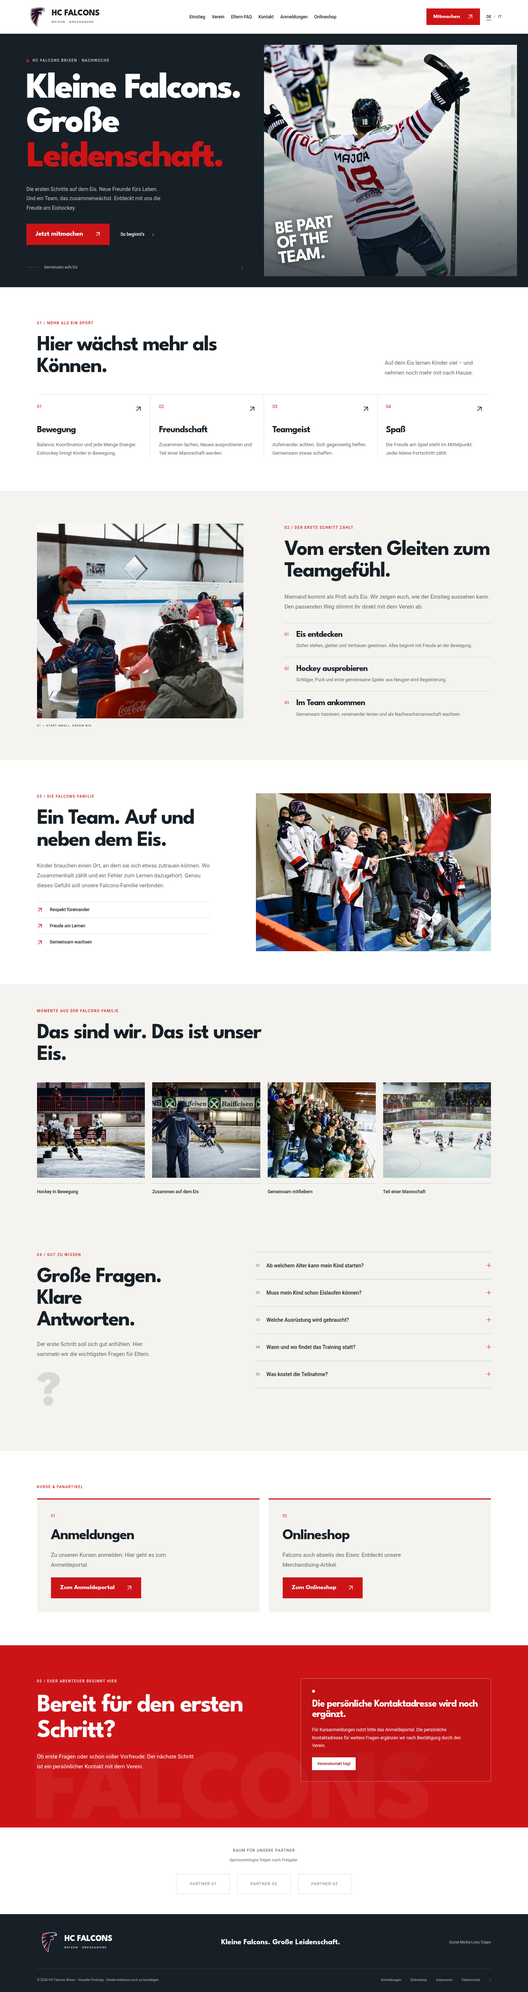
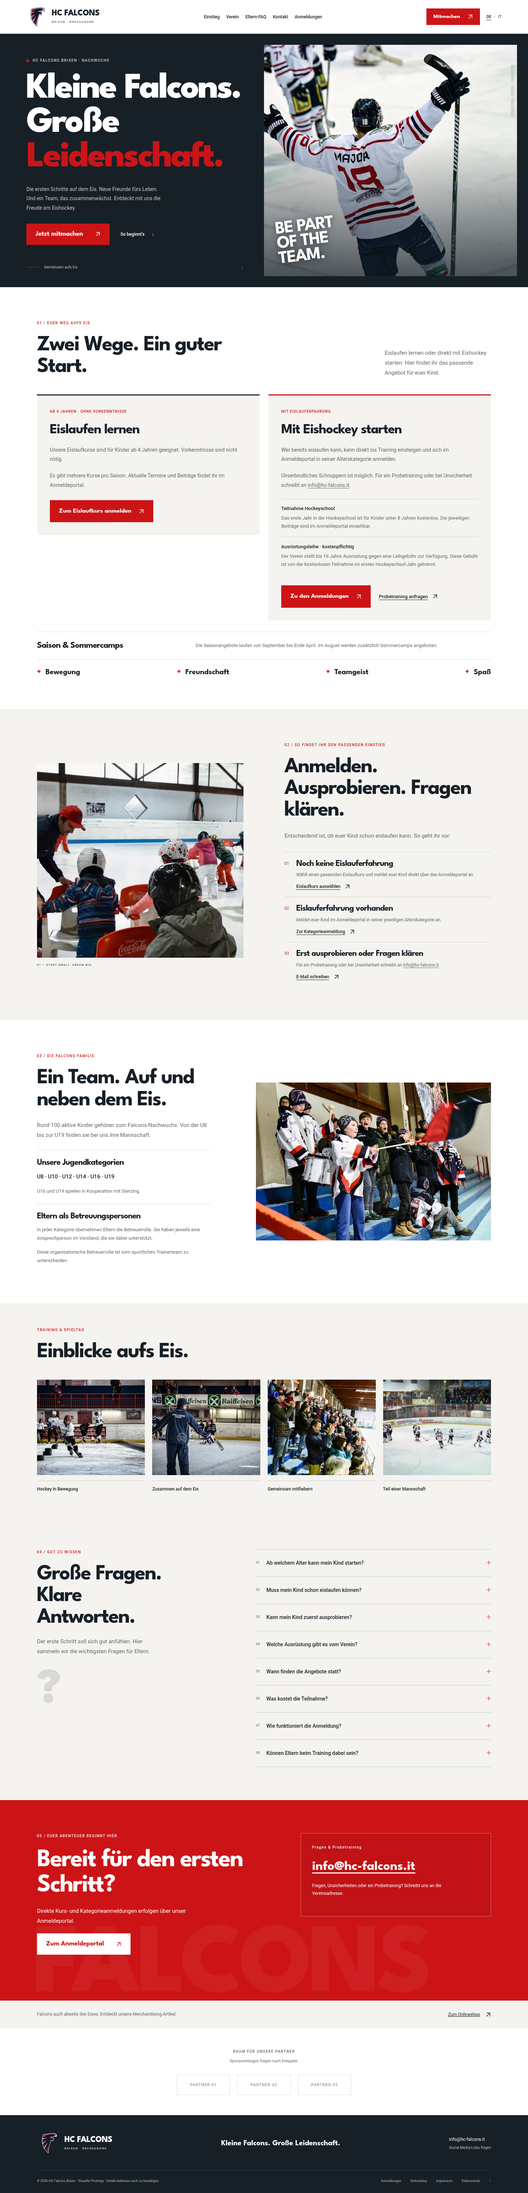
Clarify skating and hockey entry paths with confirmed bilingual club information

diff --git a/src/data/content.ts b/src/data/content.ts
@@ -1,23 +1,280 @@
 export const content = {
- de: {
- lang:'de', title:'Kleine Falcons. Große Leidenschaft.', description:'Eishockey entdecken beim HC Falcons Brixen. Ein Einstieg für Kinder und ihre Familien.',
- servicesLabel:'KURSE & FANARTIKEL', registration:'Anmeldungen', registrationText:'Zu unseren Kursen anmelden: Hier geht es zum Anmeldeportal.', registrationAction:'Zum Anmeldeportal', shop:'Onlineshop', shopText:'Falcons auch abseits des Eises: Entdeckt unsere Merchandising-Artikel.', shopAction:'Zum Onlineshop', linkPending:'Link wird noch ergänzt', nav:['Einstieg','Verein','Eltern-FAQ','Kontakt'], join:'Mitmachen', preview:'Designvorschau', dark:'Dark Athletic', clean:'Clean Athletic',
- eyebrow:'HC FALCONS BRIXEN · NACHWUCHS', hero:['Kleine Falcons.','Große','Leidenschaft.'], intro:'Die ersten Schritte auf dem Eis. Neue Freunde fürs Leben. Und ein Team, das zusammenwächst. Entdeckt mit uns die Freude am Eishockey.', cta:'Jetzt mitmachen', secondary:'So beginnt’s',   scroll:'Gemeinsam aufs Eis',
- whyLabel:'MEHR ALS EIN SPORT', whyTitle:'Hier wächst mehr als Können.', whyIntro:'Auf dem Eis lernen Kinder viel – und nehmen noch mehr mit nach Hause.', benefits:[['01','Bewegung','Balance, Koordination und jede Menge Energie: Eishockey bringt Kinder in Bewegung.'],['02','Freundschaft','Zusammen lachen, Neues ausprobieren und Teil einer Mannschaft werden.'],['03','Teamgeist','Aufeinander achten. Sich gegenseitig helfen. Gemeinsam etwas schaffen.'],['04','Spaß','Die Freude am Spiel steht im Mittelpunkt. Jeder kleine Fortschritt zählt.']],
- pathLabel:'DER ERSTE SCHRITT ZÄHLT', pathTitle:'Vom ersten Gleiten zum Teamgefühl.', pathIntro:'Niemand kommt als Profi aufs Eis. Wir zeigen euch, wie der Einstieg aussehen kann. Den passenden Weg stimmt ihr direkt mit dem Verein ab.', steps:[['Eis entdecken','Sicher stehen, gleiten und Vertrauen gewinnen. Alles beginnt mit Freude an der Bewegung.'],['Hockey ausprobieren','Schläger, Puck und erste gemeinsame Spiele: aus Neugier wird Begeisterung.'],['Im Team ankommen','Gemeinsam trainieren, voneinander lernen und als Nachwuchsmannschaft wachsen.']],
- familyLabel:'DIE FALCONS-FAMILIE', familyTitle:'Ein Team. Auf und neben dem Eis.', familyText:'Kinder brauchen einen Ort, an dem sie sich etwas zutrauen können. Wo Zusammenhalt zählt und ein Fehler zum Lernen dazugehört. Genau dieses Gefühl soll unsere Falcons-Familie verbinden.', values:['Respekt füreinander','Freude am Lernen','Gemeinsam wachsen'],
- faqLabel:'GUT ZU WISSEN', faqTitle:'Große Fragen. Klare Antworten.', faqIntro:'Der erste Schritt soll sich gut anfühlen. Hier sammeln wir die wichtigsten Fragen für Eltern.', faqs:[['Ab welchem Alter kann mein Kind starten?','Das genaue Einstiegsalter stimmen wir noch mit dem Verein ab. Bitte fragt den passenden Einstieg für euer Kind direkt an.'],['Muss mein Kind schon Eislaufen können?','Die Voraussetzungen für die einzelnen Angebote werden noch bestätigt. Erzählt bei eurer Anfrage kurz, welche Erfahrungen euer Kind bereits hat.'],['Welche Ausrüstung wird gebraucht?','Informationen zu Ausrüstung und möglichen Leihangeboten folgen. Bitte klärt vor dem ersten Besuch, was mitzubringen ist.'],['Wann und wo findet das Training statt?','Trainingszeiten und der genaue Treffpunkt sind noch offen und werden nach Bestätigung durch den Verein ergänzt.'],['Was kostet die Teilnahme?','Bestätigte Mitgliedsbeiträge und mögliche Zusatzkosten liegen noch nicht vor. Die Informationen werden hier ergänzt.']],
- contactLabel:'EUER ABENTEUER BEGINNT HIER', contactTitle:'Bereit für den ersten Schritt?', contactText:'Ob erste Fragen oder schon voller Vorfreude: Der nächste Schritt ist ein persönlicher Kontakt mit dem Verein.', contactMissing:'Die persönliche Kontaktadresse wird noch ergänzt.', contactStatus:'Vereinskontakt folgt', contactHint:'Für Kursanmeldungen nutzt bitte das Anmeldeportal. Die persönliche Kontaktadresse für weitere Fragen ergänzen wir nach Bestätigung durch den Verein.',
- sponsor:'RAUM FÜR UNSERE PARTNER', sponsorText:'Sponsorenlogos folgen nach Freigabe.', footerLine:'Kleine Falcons. Große Leidenschaft.', legal:'Impressum', privacy:'Datenschutz', legalText:'Die rechtlichen Pflichtangaben und Datenschutzinformationen sind noch nicht hinterlegt. Dieser Bereich ist ein Platzhalter für die interne Vorschau.', social:'Social-Media-Links folgen', back:'Zurück zur Website', skip:'Zum Inhalt', prototype:'Visueller Prototyp · Inhalte teilweise noch zu bestätigen',
- },
- it: {
- lang:'it', title:'Piccoli Falcons. Grande passione.', description:'Scoprire l’hockey con HC Falcons Brixen. Un primo passo per bambini e famiglie.',
- servicesLabel:'CORSI & MERCHANDISING', registration:'Iscrizioni', registrationText:'Iscrivetevi ai nostri corsi tramite il portale dedicato.', registrationAction:'Al portale iscrizioni', shop:'Shop online', shopText:'Falcons anche fuori dal ghiaccio: scoprite i nostri articoli di merchandising.', shopAction:'Allo shop online', linkPending:'Link in arrivo', nav:['Primi passi','Il club','FAQ genitori','Contatti'], join:'Partecipa', preview:'Anteprima design', dark:'Dark Athletic', clean:'Clean Athletic',
- eyebrow:'HC FALCONS BRIXEN · SETTORE GIOVANILE', hero:['Piccoli Falcons.','Grande','passione.'], intro:'I primi passi sul ghiaccio. Nuovi amici. Una squadra che cresce insieme. Scoprite con noi la gioia dell’hockey.', cta:'Inizia con noi', secondary:'Come iniziare',   scroll:'Insieme sul ghiaccio',
- whyLabel:'PIÙ DI UNO SPORT', whyTitle:'Qui si cresce, insieme.', whyIntro:'Sul ghiaccio si impara tanto. E si porta a casa ancora di più.', benefits:[['01','Movimento','Equilibrio, coordinazione ed energia: l’hockey mette in movimento i bambini.'],['02','Amicizia','Ridere insieme, provare qualcosa di nuovo e sentirsi parte di una squadra.'],['03','Spirito di squadra','Prendersi cura degli altri. Aiutarsi. Raggiungere un obiettivo insieme.'],['04','Divertimento','La gioia del gioco viene prima di tutto. Ogni piccolo progresso conta.']],
- pathLabel:'CONTA IL PRIMO PASSO', pathTitle:'Dai primi pattini allo spirito di squadra.', pathIntro:'Nessuno nasce campione. Ecco come potrebbe iniziare il percorso: il programma adatto va concordato direttamente con il club.', steps:[['Scoprire il ghiaccio','Stare in equilibrio, scivolare e prendere fiducia. Si parte dalla gioia di muoversi.'],['Provare l’hockey','Bastone, disco e primi giochi insieme: la curiosità diventa passione.'],['Entrare in squadra','Allenarsi insieme, imparare gli uni dagli altri e crescere come gruppo.']],
- familyLabel:'LA FAMIGLIA FALCONS', familyTitle:'Una squadra. Anche fuori dal ghiaccio.', familyText:'I bambini hanno bisogno di un luogo in cui mettersi alla prova. Dove conta il gruppo e gli errori aiutano a imparare. È questo lo spirito che vogliamo condividere nella famiglia Falcons.', values:['Rispetto reciproco','Piacere di imparare','Crescere insieme'],
- faqLabel:'DA SAPERE', faqTitle:'Grandi domande. Risposte chiare.', faqIntro:'Per iniziare con serenità: le domande più importanti per i genitori.', faqs:[['Da che età si può iniziare?','L’età di ingresso deve ancora essere confermata dal club. Chiedete quale percorso è adatto a vostro figlio.'],['È necessario saper già pattinare?','I requisiti delle singole attività saranno confermati. Indicate nella richiesta le esperienze già fatte sul ghiaccio.'],['Quale attrezzatura serve?','Le informazioni sull’attrezzatura e su eventuali prestiti seguiranno. Chiedete cosa portare prima della prima visita.'],['Quando e dove si svolgono gli allenamenti?','Orari e punto di ritrovo verranno aggiunti dopo la conferma del club.'],['Quanto costa partecipare?','Quote e possibili costi aggiuntivi non sono ancora stati confermati. Le informazioni verranno aggiunte qui.']],
- contactLabel:'L’AVVENTURA INIZIA QUI', contactTitle:'Pronti per il primo passo?', contactText:'Per una prima domanda o per cominciare: il prossimo passo è un contatto personale con il club.', contactMissing:'Il recapito diretto del club sarà aggiunto.', contactStatus:'Recapito del club in arrivo', contactHint:'Per iscrivervi ai corsi utilizzate il portale iscrizioni. Il recapito diretto per altre domande sarà aggiunto dopo la conferma del club.', sponsor:'SPAZIO AI NOSTRI PARTNER', sponsorText:'Loghi degli sponsor dopo approvazione.', footerLine:'Piccoli Falcons. Grande passione.', legal:'Note legali', privacy:'Privacy', legalText:'Le informazioni legali e sulla privacy non sono ancora disponibili. Questa sezione è un segnaposto per l’anteprima interna.', social:'Link social in arrivo', back:'Torna al sito', skip:'Vai al contenuto', prototype:'Prototipo visivo · Alcuni contenuti da confermare',
- }
+  "de": {
+    "lang": "de",
+    "title": "Kleine Falcons. Große Leidenschaft.",
+    "description": "Eishockey entdecken beim HC Falcons Brixen. Ein Einstieg für Kinder und ihre Familien.",
+    "registration": "Anmeldungen",
+    "shop": "Onlineshop",
+    "shopText": "Falcons auch abseits des Eises: Entdeckt unsere Merchandising-Artikel.",
+    "shopAction": "Zum Onlineshop",
+    "nav": [
+      "Einstieg",
+      "Verein",
+      "Eltern-FAQ",
+      "Kontakt"
+    ],
+    "join": "Mitmachen",
+    "eyebrow": "HC FALCONS BRIXEN · NACHWUCHS",
+    "hero": [
+      "Kleine Falcons.",
+      "Große",
+      "Leidenschaft."
+    ],
+    "intro": "Die ersten Schritte auf dem Eis. Neue Freunde fürs Leben. Und ein Team, das zusammenwächst. Entdeckt mit uns die Freude am Eishockey.",
+    "cta": "Jetzt mitmachen",
+    "secondary": "So beginnt’s",
+    "scroll": "Gemeinsam aufs Eis",
+    "benefits": [
+      "Bewegung",
+      "Freundschaft",
+      "Teamgeist",
+      "Spaß"
+    ],
+    "pathLabel": "SO FINDET IHR DEN PASSENDEN EINSTIEG",
+    "pathTitle": "Anmelden. Ausprobieren. Fragen klären.",
+    "pathIntro": "Entscheidend ist, ob euer Kind schon eislaufen kann. So geht ihr vor:",
+    "steps": [
+      [
+        "Noch keine Eislauferfahrung",
+        "Wählt einen passenden Eislaufkurs und meldet euer Kind direkt über das Anmeldeportal an.",
+        "Eislaufkurs auswählen"
+      ],
+      [
+        "Eislauferfahrung vorhanden",
+        "Meldet euer Kind im Anmeldeportal in seiner jeweiligen Alterskategorie an.",
+        "Zur Kategorieanmeldung"
+      ],
+      [
+        "Erst ausprobieren oder Fragen klären",
+        "Für ein Probetraining oder bei Unsicherheit schreibt an info@hc-falcons.it.",
+        "E-Mail schreiben"
+      ]
+    ],
+    "familyLabel": "DIE FALCONS-FAMILIE",
+    "familyTitle": "Ein Team. Auf und neben dem Eis.",
+    "familyText": "Rund 100 aktive Kinder gehören zum Falcons-Nachwuchs. Von der U8 bis zur U19 finden sie bei uns ihre Mannschaft.",
+    "faqLabel": "GUT ZU WISSEN",
+    "faqTitle": "Große Fragen. Klare Antworten.",
+    "faqIntro": "Der erste Schritt soll sich gut anfühlen. Hier sammeln wir die wichtigsten Fragen für Eltern.",
+    "faqs": [
+      [
+        "Ab welchem Alter kann mein Kind starten?",
+        "Die Eislaufkurse werden ab 4 Jahren angeboten."
+      ],
+      [
+        "Muss mein Kind schon eislaufen können?",
+        "Für den Eislaufkurs sind keine Vorkenntnisse nötig. Wer bereits eislaufen kann, kann direkt ins Hockeytraining einsteigen."
+      ],
+      [
+        "Kann mein Kind zuerst ausprobieren?",
+        "Unverbindliches Schnuppern ist möglich. Für die Abstimmung eines Probetrainings schreibt an info@hc-falcons.it."
+      ],
+      [
+        "Welche Ausrüstung gibt es vom Verein?",
+        "Der Verein stellt bis 16 Jahre Ausrüstung gegen eine Leihgebühr zur Verfügung. Fragen zur Ausrüstung für den ersten Besuch können per E-Mail an info@hc-falcons.it geklärt werden."
+      ],
+      [
+        "Wann finden die Angebote statt?",
+        "Die Saisonangebote laufen von September bis Ende April. Eislaufkurse werden mehrmals pro Saison angeboten; aktuelle Kurstermine sind im Anmeldeportal einsehbar. Im August gibt es zusätzlich Sommercamps."
+      ],
+      [
+        "Was kostet die Teilnahme?",
+        "Das erste Jahr in der Hockeyschool für Kinder unter 8 Jahren ist kostenlos. Die jeweiligen Beiträge sind im Anmeldeportal einsehbar. Für die Leihausrüstung fällt eine Gebühr an."
+      ],
+      [
+        "Wie funktioniert die Anmeldung?",
+        "Eislaufanfänger melden sich beim Eislaufkurs an. Kinder mit Eislauferfahrung melden sich in ihrer Alterskategorie an. Erforderliche Dokumente werden im Anmeldeprozess abgefragt. Bei Unsicherheit hilft info@hc-falcons.it."
+      ],
+      [
+        "Können Eltern beim Training dabei sein?",
+        "In der U8 dürfen Eltern beim Anziehen helfen. Das Training kann von der Tribüne aus mitverfolgt werden."
+      ]
+    ],
+    "contactLabel": "EUER ABENTEUER BEGINNT HIER",
+    "contactTitle": "Bereit für den ersten Schritt?",
+    "contactText": "Direkte Kurs- und Kategorieanmeldungen erfolgen über unser Anmeldeportal.",
+    "contactHint": "Fragen, Unsicherheiten oder ein Probetraining? Schreibt uns an die Vereinsadresse.",
+    "sponsor": "RAUM FÜR UNSERE PARTNER",
+    "sponsorText": "Sponsorenlogos folgen nach Freigabe.",
+    "footerLine": "Kleine Falcons. Große Leidenschaft.",
+    "legal": "Impressum",
+    "privacy": "Datenschutz",
+    "legalText": "Die rechtlichen Pflichtangaben und Datenschutzinformationen sind noch nicht hinterlegt. Dieser Bereich ist ein Platzhalter für die interne Vorschau.",
+    "social": "Social-Media-Links folgen",
+    "skip": "Zum Inhalt",
+    "prototype": "Visueller Prototyp · Inhalte teilweise noch zu bestätigen",
+    "offersLabel": "EUER WEG AUFS EIS",
+    "offersTitle": "Zwei Wege. Ein guter Start.",
+    "offersIntro": "Eislaufen lernen oder direkt mit Eishockey starten: Hier findet ihr das passende Angebot für euer Kind.",
+    "offers": [
+      {
+        "badge": "AB 4 JAHREN · OHNE VORKENNTNISSE",
+        "title": "Eislaufen lernen",
+        "text": "Unsere Eislaufkurse sind für Kinder ab 4 Jahren geeignet. Vorkenntnisse sind nicht nötig.",
+        "details": "Es gibt mehrere Kurse pro Saison. Aktuelle Termine und Beiträge findet ihr im Anmeldeportal.",
+        "action": "Zum Eislaufkurs anmelden"
+      },
+      {
+        "badge": "MIT EISLAUFERFAHRUNG",
+        "title": "Mit Eishockey starten",
+        "text": "Wer bereits eislaufen kann, kann direkt ins Training einsteigen und sich im Anmeldeportal in seiner Alterskategorie anmelden.",
+        "details": "Unverbindliches Schnuppern ist möglich. Für ein Probetraining oder bei Unsicherheit schreibt an info@hc-falcons.it.",
+        "action": "Zu den Anmeldungen",
+        "trial": "Probetraining anfragen"
+      }
+    ],
+    "participationLabel": "Teilnahme Hockeyschool",
+    "participationText": "Das erste Jahr in der Hockeyschool ist für Kinder unter 8 Jahren kostenlos. Die jeweiligen Beiträge sind im Anmeldeportal einsehbar.",
+    "equipmentLabel": "Ausrüstungsleihe · kostenpflichtig",
+    "equipmentText": "Der Verein stellt bis 16 Jahre Ausrüstung gegen eine Leihgebühr zur Verfügung. Diese Gebühr ist von der kostenlosen Teilnahme im ersten Hockeyschool-Jahr getrennt.",
+    "seasonLabel": "Saison & Sommercamps",
+    "seasonText": "Die Saisonangebote laufen von September bis Ende April. Im August werden zusätzlich Sommercamps angeboten.",
+    "categoriesLabel": "Unsere Jugendkategorien",
+    "categories": "U8 · U10 · U12 · U14 · U16 · U19",
+    "cooperation": "U16 und U19 spielen in Kooperation mit Sterzing.",
+    "supportTitle": "Eltern als Betreuungspersonen",
+    "supportText": "In jeder Kategorie übernehmen Eltern die Betreuerrolle. Sie haben jeweils eine Ansprechperson im Vorstand, die sie dabei unterstützt.",
+    "supportDistinction": "Diese organisatorische Betreuerrolle ist vom sportlichen Trainerteam zu unterscheiden.",
+    "contactMailLabel": "Fragen & Probetraining",
+    "contactAction": "Zum Anmeldeportal"
+  },
+  "it": {
+    "lang": "it",
+    "title": "Piccoli Falcons. Grande passione.",
+    "description": "Scoprire l’hockey con HC Falcons Brixen. Un primo passo per bambini e famiglie.",
+    "registration": "Iscrizioni",
+    "shop": "Shop online",
+    "shopText": "Falcons anche fuori dal ghiaccio: scoprite i nostri articoli di merchandising.",
+    "shopAction": "Allo shop online",
+    "nav": [
+      "Primi passi",
+      "Il club",
+      "FAQ genitori",
+      "Contatti"
+    ],
+    "join": "Partecipa",
+    "eyebrow": "HC FALCONS BRIXEN · SETTORE GIOVANILE",
+    "hero": [
+      "Piccoli Falcons.",
+      "Grande",
+      "passione."
+    ],
+    "intro": "I primi passi sul ghiaccio. Nuovi amici. Una squadra che cresce insieme. Scoprite con noi la gioia dell’hockey.",
+    "cta": "Inizia con noi",
+    "secondary": "Come iniziare",
+    "scroll": "Insieme sul ghiaccio",
+    "benefits": [
+      "Movimento",
+      "Amicizia",
+      "Spirito di squadra",
+      "Divertimento"
+    ],
+    "pathLabel": "COME SCEGLIERE IL PERCORSO",
+    "pathTitle": "Iscriversi. Provare. Chiarire i dubbi.",
+    "pathIntro": "Il punto di partenza è l’esperienza di vostro figlio sul ghiaccio. Ecco come procedere:",
+    "steps": [
+      [
+        "Nessuna esperienza di pattinaggio",
+        "Scegliete un corso di pattinaggio adatto e iscrivete vostro figlio direttamente tramite il portale.",
+        "Scegli il corso di pattinaggio"
+      ],
+      [
+        "Sa già pattinare",
+        "Iscrivete vostro figlio nella rispettiva categoria di età tramite il portale iscrizioni.",
+        "Iscriviti alla categoria"
+      ],
+      [
+        "Prima provare o chiarire i dubbi",
+        "Per un allenamento di prova o in caso di dubbi, scrivete a info@hc-falcons.it.",
+        "Scrivi un’e-mail"
+      ]
+    ],
+    "familyLabel": "LA FAMIGLIA FALCONS",
+    "familyTitle": "Una squadra. Anche fuori dal ghiaccio.",
+    "familyText": "Circa 100 bambini attivi fanno parte del settore giovanile dei Falcons. Dalla U8 alla U19 trovano la propria squadra.",
+    "faqLabel": "DA SAPERE",
+    "faqTitle": "Grandi domande. Risposte chiare.",
+    "faqIntro": "Per iniziare con serenità: le domande più importanti per i genitori.",
+    "faqs": [
+      [
+        "Da che età si può iniziare?",
+        "I corsi di pattinaggio sono proposti a partire dai 4 anni."
+      ],
+      [
+        "È necessario saper già pattinare?",
+        "Per il corso di pattinaggio non serve alcuna esperienza. Chi sa già pattinare può iniziare direttamente con gli allenamenti di hockey."
+      ],
+      [
+        "Mio figlio può prima provare?",
+        "È possibile provare senza impegno. Per concordare un allenamento di prova scrivete a info@hc-falcons.it."
+      ],
+      [
+        "Quale attrezzatura fornisce il club?",
+        "Il club mette a disposizione l’attrezzatura fino ai 16 anni dietro pagamento di una quota di noleggio. Per sapere cosa serve alla prima visita, scrivete a info@hc-falcons.it."
+      ],
+      [
+        "Quando si svolgono le attività?",
+        "Le attività stagionali si svolgono da settembre a fine aprile. I corsi di pattinaggio vengono proposti più volte durante la stagione; le date aggiornate sono consultabili nel portale iscrizioni. Ad agosto ci sono anche camp estivi."
+      ],
+      [
+        "Quanto costa partecipare?",
+        "Il primo anno nella Hockeyschool è gratuito per i bambini sotto gli 8 anni. Le quote delle rispettive attività sono consultabili nel portale iscrizioni. Per il noleggio dell’attrezzatura è prevista una quota."
+      ],
+      [
+        "Come funziona l’iscrizione?",
+        "Chi non sa ancora pattinare si iscrive al corso di pattinaggio. Chi sa già pattinare si iscrive nella propria categoria di età. I documenti necessari vengono richiesti durante la procedura di iscrizione. In caso di dubbi, scrivete a info@hc-falcons.it."
+      ],
+      [
+        "I genitori possono assistere agli allenamenti?",
+        "Nella U8 i genitori possono aiutare i bambini a vestirsi. È possibile seguire l’allenamento dalla tribuna."
+      ]
+    ],
+    "contactLabel": "L’AVVENTURA INIZIA QUI",
+    "contactTitle": "Pronti per il primo passo?",
+    "contactText": "Le iscrizioni ai corsi e alle categorie si effettuano direttamente tramite il nostro portale iscrizioni.",
+    "contactHint": "Domande, dubbi o un allenamento di prova? Scriveteci all’indirizzo del club.",
+    "sponsor": "SPAZIO AI NOSTRI PARTNER",
+    "sponsorText": "Loghi degli sponsor dopo approvazione.",
+    "footerLine": "Piccoli Falcons. Grande passione.",
+    "legal": "Note legali",
+    "privacy": "Privacy",
+    "legalText": "Le informazioni legali e sulla privacy non sono ancora disponibili. Questa sezione è un segnaposto per l’anteprima interna.",
+    "social": "Link social in arrivo",
+    "skip": "Vai al contenuto",
+    "prototype": "Prototipo visivo · Alcuni contenuti da confermare",
+    "offersLabel": "IL VOSTRO PERCORSO SUL GHIACCIO",
+    "offersTitle": "Due percorsi. Un buon inizio.",
+    "offersIntro": "Imparare a pattinare o iniziare subito con l’hockey: trovate l’attività adatta a vostro figlio.",
+    "offers": [
+      {
+        "badge": "DAI 4 ANNI · SENZA ESPERIENZA",
+        "title": "Imparare a pattinare",
+        "text": "I nostri corsi di pattinaggio sono rivolti ai bambini dai 4 anni. Non è richiesta alcuna esperienza.",
+        "details": "Durante la stagione si svolgono più corsi. Date aggiornate e quote sono consultabili nel portale iscrizioni.",
+        "action": "Iscriviti al corso di pattinaggio"
+      },
+      {
+        "badge": "PER CHI SA GIÀ PATTINARE",
+        "title": "Iniziare con l’hockey",
+        "text": "Chi sa già pattinare può entrare direttamente in allenamento e iscriversi alla propria categoria di età tramite il portale.",
+        "details": "È possibile provare senza impegno. Per concordare un allenamento di prova o in caso di dubbi, scrivete a info@hc-falcons.it.",
+        "action": "Vai alle iscrizioni",
+        "trial": "Richiedi un allenamento di prova"
+      }
+    ],
+    "participationLabel": "Partecipazione alla Hockeyschool",
+    "participationText": "Il primo anno nella Hockeyschool è gratuito per i bambini sotto gli 8 anni. Le quote delle rispettive attività sono consultabili nel portale iscrizioni.",
+    "equipmentLabel": "Noleggio attrezzatura · a pagamento",
+    "equipmentText": "Il club mette a disposizione l’attrezzatura fino ai 16 anni dietro pagamento di una quota di noleggio. Questa quota è separata dalla partecipazione gratuita al primo anno di Hockeyschool.",
+    "seasonLabel": "Stagione e camp estivi",
+    "seasonText": "Le attività stagionali si svolgono da settembre a fine aprile. Ad agosto vengono proposti anche camp estivi.",
+    "categoriesLabel": "Le nostre categorie giovanili",
+    "categories": "U8 · U10 · U12 · U14 · U16 · U19",
+    "cooperation": "U16 e U19 in collaborazione con Vipiteno.",
+    "supportTitle": "Genitori come accompagnatori",
+    "supportText": "In ogni categoria alcuni genitori svolgono il ruolo di accompagnatori. Hanno una persona di riferimento nel direttivo che li sostiene in questo compito.",
+    "supportDistinction": "Questo ruolo di supporto organizzativo è distinto da quello dello staff tecnico degli allenatori.",
+    "contactMailLabel": "Domande e allenamento di prova",
+    "contactAction": "Al portale iscrizioni"
+  }
 };

diff --git a/src/components/styles.css b/src/components/styles.css
@@ -15,3 +15,8 @@
 @media(max-width:760px){.club-logo{width:44px;height:44px}.brand{gap:8px;font-size:18px}.header{column-gap:10px}.header-actions{gap:10px}.visual-stamp{font-size:37px;bottom:48px;left:36px}.gallery-grid{gap:25px 15px}.gallery .photo{height:205px}.gallery figcaption{font-size:11px}.hero-photo img{object-position:50% 44%}.entry-photo img{object-position:center}.footer .club-logo{width:55px;height:55px}}
 @media(max-width:380px){.header .brand small{font-size:6px}.header .brand{font-size:16px}.header-actions .small{padding:10px;gap:8px}.header-actions{gap:7px}.club-logo{width:39px;height:42px}.gallery .photo{height:175px}}
 .arrow-icon{display:inline-block;width:15px;height:15px;vertical-align:middle;flex-shrink:0}.button>span{display:flex}.number .arrow-icon{width:17px;height:17px}
+/* Clear entry paths, with confirmed participation and rental terms kept separate. */
+.offers{background:#fff}.offer-grid{display:grid;grid-template-columns:1fr 1fr;gap:24px;align-items:start}.offer-card{background:var(--paper);padding:35px;border-top:3px solid var(--ink)}.offer-card.hockey-offer{border-top-color:var(--red)}.offer-badge{font-size:10px;font-weight:500;letter-spacing:.1em;color:var(--red);margin-bottom:22px}.offer-card h3{font-size:38px;margin-bottom:22px}.offer-card>p:not(.offer-badge){font-size:14px;color:var(--muted)}.offer-actions{display:flex;flex-wrap:wrap;align-items:center;gap:22px;margin-top:28px}.offer-actions .button{font-size:17px;gap:20px;line-height:1.2}.trial-link,.step-link{display:inline-flex;align-items:center;gap:12px;font-size:13px;font-weight:500;text-decoration:underline;text-underline-offset:4px}.trial-link:hover,.step-link:hover{color:var(--red)}.inline-email{text-decoration:underline;text-underline-offset:3px;overflow-wrap:anywhere}.inline-email:hover{color:var(--red)}.offer-costs{margin:24px 0 0}.offer-costs>div{border-top:1px solid #d0d3cd;padding:18px 0}.offer-costs dt{font-size:13px;font-weight:500;margin-bottom:8px}.offer-costs dd{font-size:13px;line-height:1.7;margin:0;color:var(--muted)}.season-note{display:grid;grid-template-columns:1fr 2fr;gap:30px;border-top:1px solid var(--line);margin-top:30px;padding-top:25px}.season-note h3{font-size:24px}.season-note p{font-size:13px;color:var(--muted);margin:0}.benefit-strip{display:flex;justify-content:space-between;gap:20px;list-style:none;padding:25px 0 0;margin:25px 0 0;border-top:1px solid var(--line)}.benefit-strip li{font:700 21px 'League Spartan',sans-serif}.benefit-strip li:before{content:'+';color:var(--red);margin-right:12px}.step-link{margin-top:14px;font-size:12px}.club-facts{border-top:1px solid var(--line);padding-top:24px;margin-top:25px}.club-facts h3,.club-support h3{font-size:23px;margin-bottom:13px}.club-facts p,.club-support p{font-size:13px;color:var(--muted);margin-bottom:14px}.club-facts .categories{font-weight:500;color:var(--ink);font-size:15px}.club-support{border-top:1px solid var(--line);padding-top:22px;margin-top:22px}.contact-email{display:inline-block;font:700 clamp(23px,2.6vw,36px) 'League Spartan',sans-serif;text-decoration:underline;text-underline-offset:7px;margin:5px 0 25px;overflow-wrap:anywhere;max-width:100%}.contact-card .eyebrow{font-size:10px}.contact-registration{background:#fff;color:var(--red);position:relative;z-index:1}.contact-registration:hover{background:#f0eee9;color:#a80e11}.contact-card{align-self:start}.shop-strip{padding:27px 7%;display:flex;justify-content:space-between;gap:25px;align-items:center;background:var(--paper)}.shop-strip p{font-size:12px;color:var(--muted);margin:0}.shop-strip a{display:inline-flex;align-items:center;gap:15px;font-size:12px;text-decoration:underline;white-space:nowrap}.footer-contact{display:flex;flex-direction:column;gap:10px;font-size:12px}.footer-contact>span{font-size:10px;color:#b8bfc3}.footer-bottom>div{flex-wrap:wrap}
+@media(max-width:1050px){.offer-card{padding:26px}.offer-card h3{font-size:33px}.offer-actions .button{font-size:16px;padding:18px;gap:15px}.family{grid-template-columns:1fr 1fr}}
+@media(max-width:760px){.offer-grid{grid-template-columns:1fr;gap:22px}.offer-card{padding:27px 24px}.offer-card h3{font-size:34px}.offer-badge{font-size:9px}.offer-actions{gap:23px}.offer-actions .button{max-width:100%;font-size:17px}.season-note{grid-template-columns:1fr;gap:12px}.benefit-strip{display:grid;grid-template-columns:1fr 1fr;gap:17px}.benefit-strip li{font-size:20px}.family{grid-template-columns:1fr}.shop-strip{padding:25px 6%;align-items:start;flex-direction:column;gap:10px}.contact-email{font-size:29px}.footer-contact{font-size:11px}.footer-top{align-items:start}}
+@media(prefers-reduced-motion:reduce){:root{scroll-behavior:auto}}

diff --git a/src/data/media.ts b/src/data/media.ts
@@ -14,7 +14,7 @@ export const mediaText = {
   hero: 'Ein junger Falcons-Spieler auf dem Eis mit jubelnd erhobenen Armen.',
   entry: 'Kinder mit Helmen und ein Trainer bei einer gemeinsamen Übung auf dem Eis.',
   family: 'Junge Falcons-Fans und Spieler feuern gemeinsam mit einer Vereinsfahne an.',
-  galleryLabel: 'MOMENTE AUS DER FALCONS-FAMILIE', galleryTitle: 'Das sind wir. Das ist unser Eis.',
+  galleryLabel: 'TRAINING & SPIELTAG', galleryTitle: 'Einblicke aufs Eis.',
   gallery: [
    ['Hockey in Bewegung', 'Ein Nachwuchsspieler führt den Puck durch einen Übungsparcours.'],
    ['Zusammen auf dem Eis', 'Ein Trainer mit Falcons-Jacke begleitet das Training auf dem Eis.'],
@@ -26,7 +26,7 @@ export const mediaText = {
   hero: 'Un giovane giocatore dei Falcons sul ghiaccio festeggia con le braccia alzate.',
   entry: 'Bambini con il casco e un allenatore durante un esercizio insieme sul ghiaccio.',
   family: 'Giovani tifosi e giocatori fanno il tifo insieme con una bandiera del club.',
-  galleryLabel: 'MOMENTI DELLA FAMIGLIA FALCONS', galleryTitle: 'Siamo noi. Questo è il nostro ghiaccio.',
+  galleryLabel: 'ALLENAMENTO & PARTITE', galleryTitle: 'Momenti sul ghiaccio.',
   gallery: [
    ['Hockey in movimento', 'Un giovane giocatore conduce il disco in un percorso di allenamento.'],
    ['Insieme sul ghiaccio', 'Un allenatore con la giacca Falcons segue l’allenamento sul ghiaccio.'],

diff --git a/README.md b/README.md
@@ -18,21 +18,21 @@ npm run build
 npm run preview
 ```
 
-`dist/` enthält die statische Website und kann später auf Plesk im Dokumentenverzeichnis bereitgestellt werden. Es wurde nichts veröffentlicht.
+`dist/` enthält die statische Website und kann später auf Plesk im Dokumentenverzeichnis bereitgestellt werden. Auf dem Plesk-Live-Server wurde nichts veröffentlicht.
 
 ## Inhalte und offene Angaben
 
-Alle Texte: `src/data/content.ts`. Gemeinsamer Aufbau: `src/components/Site.astro`. Gestaltung: `src/components/styles.css`. Bildplatzhalter: `src/components/Photo.astro`.
+Alle Texte: `src/data/content.ts`. Gemeinsamer Aufbau: `src/components/Site.astro`. Gestaltung: `src/components/styles.css`. Responsive Bildausgabe: `src/components/Photo.astro`.
 
 Das Original-Logo und sieben Originalfotos wurden über GitHub bereitgestellt und sind eingebunden. Die Zuordnung sowie deutsche und italienische Alternativtexte stehen in `src/data/media.ts`. `src/components/Photo.astro` erzeugt responsive WebP-Bilder über Astro Image; nur das Hero-Bild wird priorisiert, weitere Fotos laden verzögert. Das transparente Original-Logo erscheint in Header und Footer. Die hochgeladenen Originaldateien im Repository-Hauptverzeichnis bleiben unverändert und werden nicht als große Originaldateien an Browser ausgeliefert.
 
-Zu bestätigen: Einstiegsalter, Teilnahmevoraussetzungen, Leihmaterial, Trainingsort und -zeiten, Beiträge, Trainer, Vereinskontakt, Anmeldung, Sponsoren, Social-Media-Adressen sowie vollständige Rechts- und Datenschutzangaben. Es gibt bewusst kein funktionsloses Kontaktformular und keine erfundenen Kontaktdaten. Die italienischen Texte sind ein erster redaktioneller Entwurf und sollten vor Veröffentlichung geprüft werden.
+Bestätigte Angaben zu Einstieg, Saison, Hockeyschool, Ausrüstungsleihe, Jugendkategorien, Elternbetreuung und Kontakt sind in beiden Sprachen eingepflegt. Konkrete Kurstermine und Beiträge werden im bestehenden Anmeldeportal ausgewiesen. Noch offen für die finale Veröffentlichung: Sponsoren, Social-Media-Adressen sowie vollständige Rechts- und Datenschutzangaben. Keine konkreten Trainingszeiten, Schnupper- oder Leihgebühren und keine Qualifikationen des Trainerteams wurden ergänzt. Es gibt bewusst kein funktionsloses Kontaktformular und keine erfundenen Kontaktdaten. Die italienischen Texte sind ein erster redaktioneller Entwurf und sollten vor Veröffentlichung geprüft werden.
 
 Schriften (League Spartan und Roboto) werden aus den freien Fontsource-Paketen lokal eingebunden. Keine externen Fontdienste, Tracker, kostenpflichtigen Komponenten oder Laufzeitdienste. Die interne Vorschau verwendet `noindex, nofollow`; das ersetzt keinen Zugriffsschutz. Vor einer späteren Veröffentlichung finale Inhalte, Bildrechte, Rechtsangaben, Domain/Canonical- und hreflang-URLs ergänzen und die Indexierungsregel gezielt anpassen.
 
 ## Durchgeführte Validierung
 
-Produktionsbuild mit fünf statischen Seiten erfolgreich. Beide Sprachen und Designs in Chromium bei 375, 768 und 1440 Pixeln geprüft: HTTP 200, eine Hauptüberschrift, fünf bedienbare FAQ-Einträge, vorhandene Ankerziele und kein horizontaler Überlauf. Design- und Sprachwechsel geprüft; die statische Ausgabe enthält keine Script-Tags. Die Browserprüfungen ersetzen noch keinen vollständigen Barrierefreiheits-Audit oder eine Prüfung auf echten Mobilgeräten.
+Produktionsbuild mit fünf statischen Seiten erfolgreich. Der überarbeitete Einstieg wurde in beiden Sprachen in Chromium bei 320, 375, 768, 1024 und 1440 Pixeln geprüft: HTTP 200, eine Hauptüberschrift, acht bedienbare FAQ-Einträge, vorhandene Ankerziele und kein horizontaler Überlauf. Sprachwechsel geprüft; die statische Ausgabe enthält keine Script-Tags. Die Browserprüfungen ersetzen noch keinen vollständigen Barrierefreiheits-Audit oder eine Prüfung auf echten Mobilgeräten.
 
 ## GitHub-Pages-Vorschau
 
@@ -46,4 +46,6 @@ Zum Prüfen des Pages-Builds: `GITHUB_PAGES=true npm run build`. Für Plesk weit
 
 ## Anmeldungen und Shop
 
-Die bestätigten externen URLs werden zentral in `src/data/links.ts` gepflegt. Solange sie fehlen, führen die Navigationspunkte zu den entsprechend beschrifteten Bereichen mit sichtbarem Link-Platzhalter. Keine Zieladressen wurden geraten.
+Die bestätigten externen URLs werden zentral in `src/data/links.ts` gepflegt. Die Auswahl „Eislaufen lernen“ / „Mit Eishockey starten“ steht direkt hinter dem Hero unter `#angebote`. Hero- und Header-Mitmachbuttons führen dorthin. Kurs- und Kategorieanmeldungen führen ins bestehende Registrix-Portal; Probetraining und Rückfragen an `mailto:info@hc-falcons.it`. Der Shop steht zurückhaltend unterhalb des Kontaktbereichs und im Footer.
+
+Kostenhinweise sind bewusst getrennt: erstes Hockeyschool-Jahr für Kinder unter 8 Jahren kostenlos; Ausrüstungsleihe bis 16 Jahre gegen Gebühr. Für Beträge und aktuelle Kurstermine gilt das Anmeldeportal. Die allgemeinen Vorteile sind auf eine kompakte Zeile reduziert.
